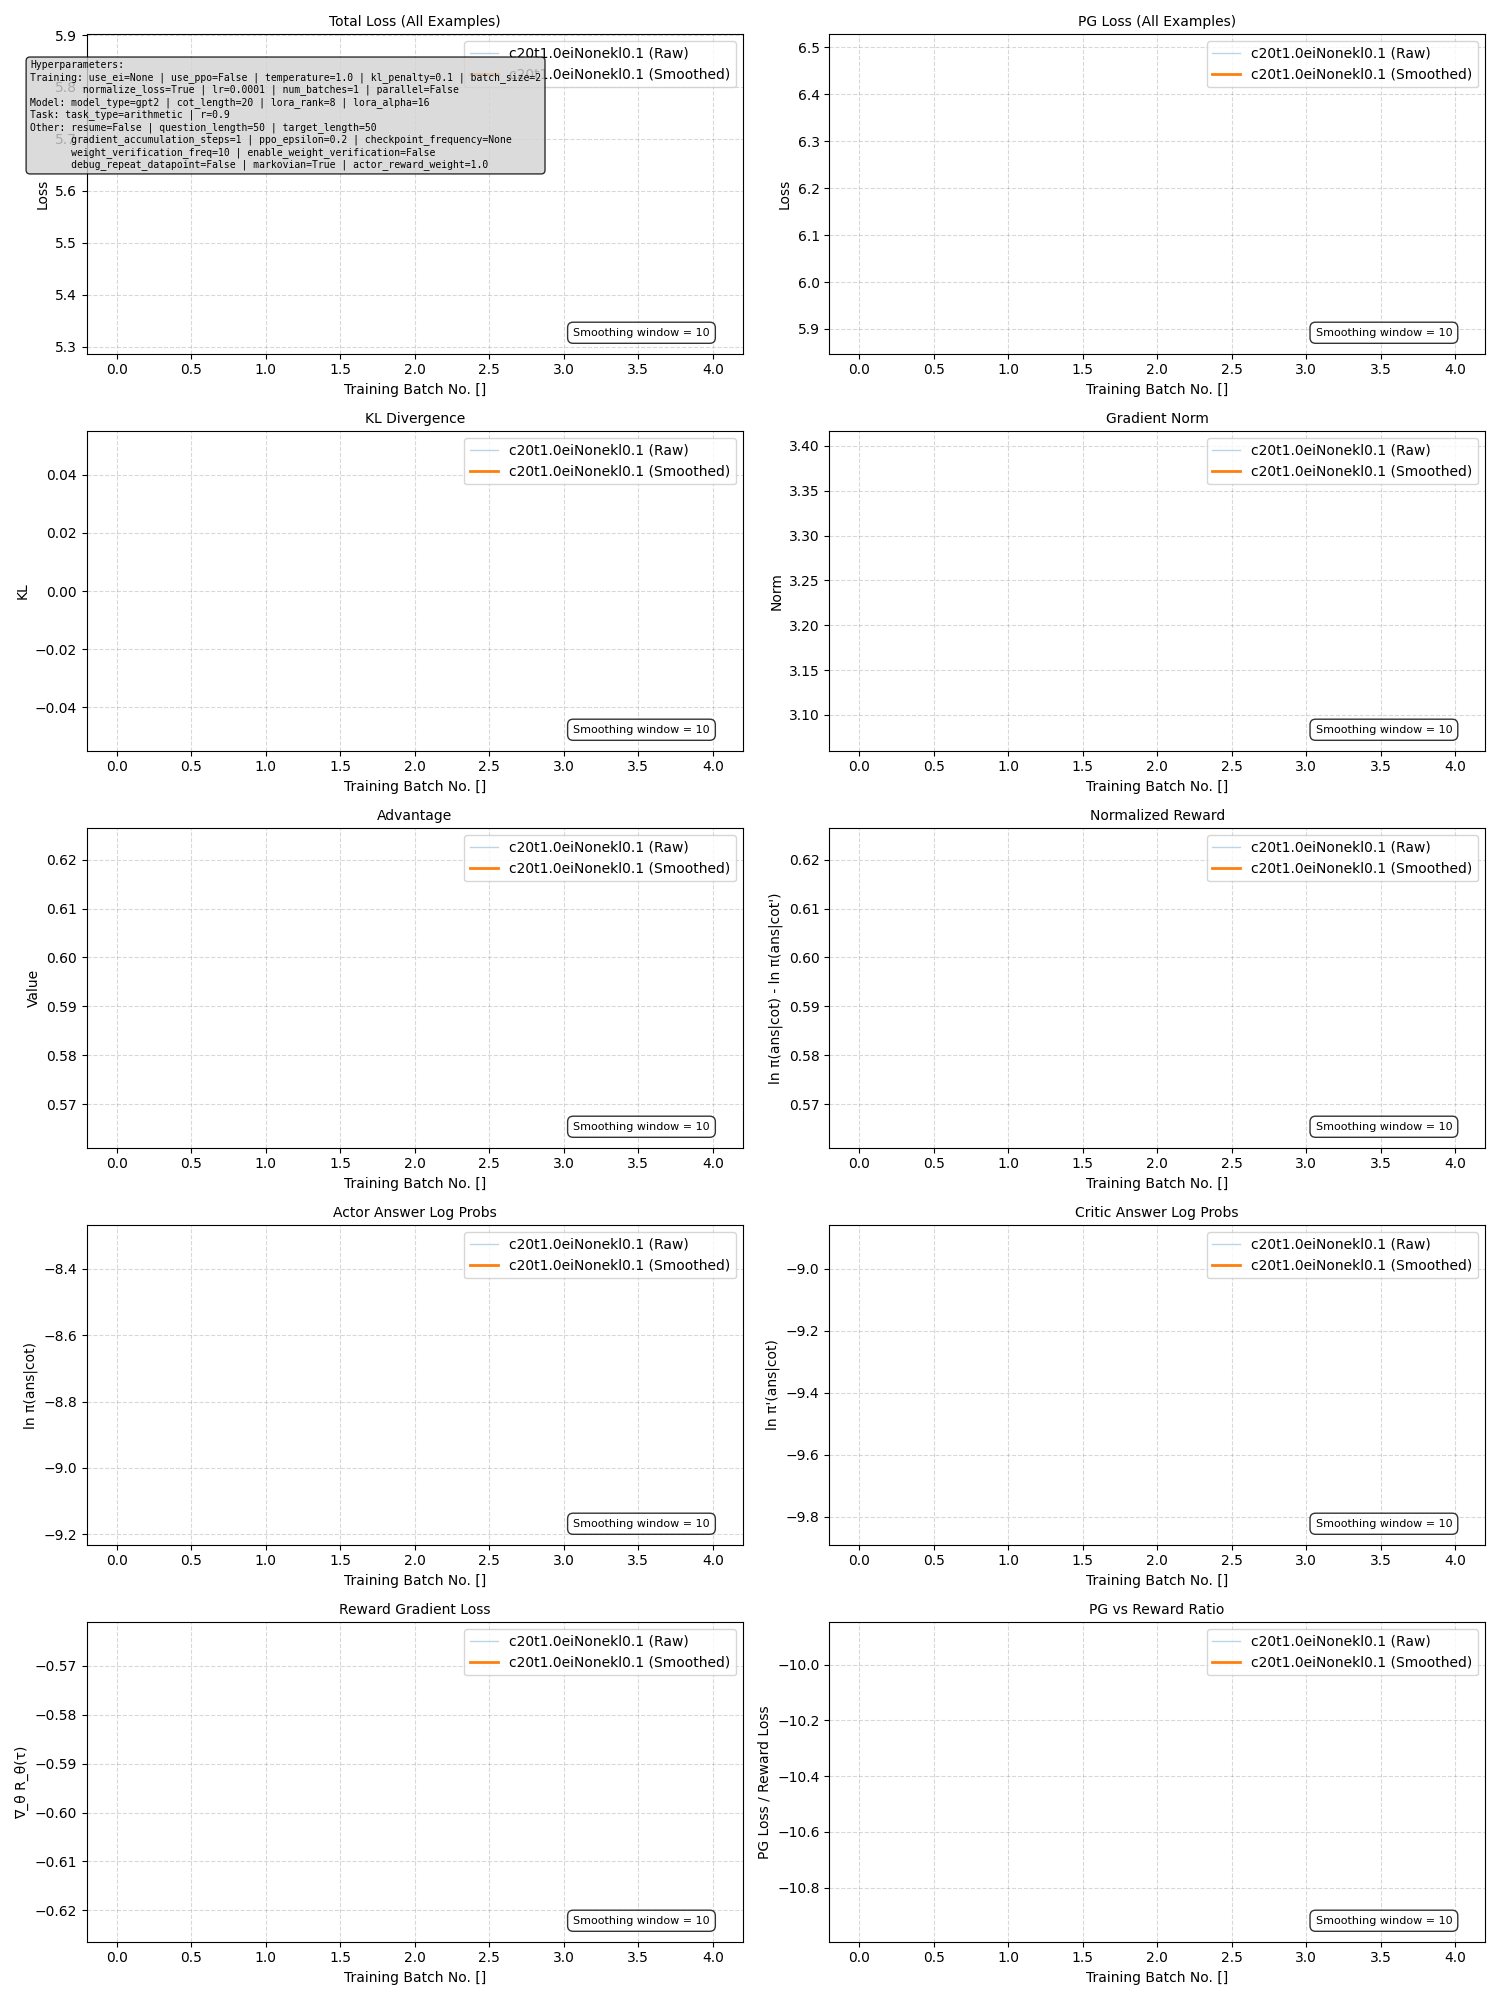
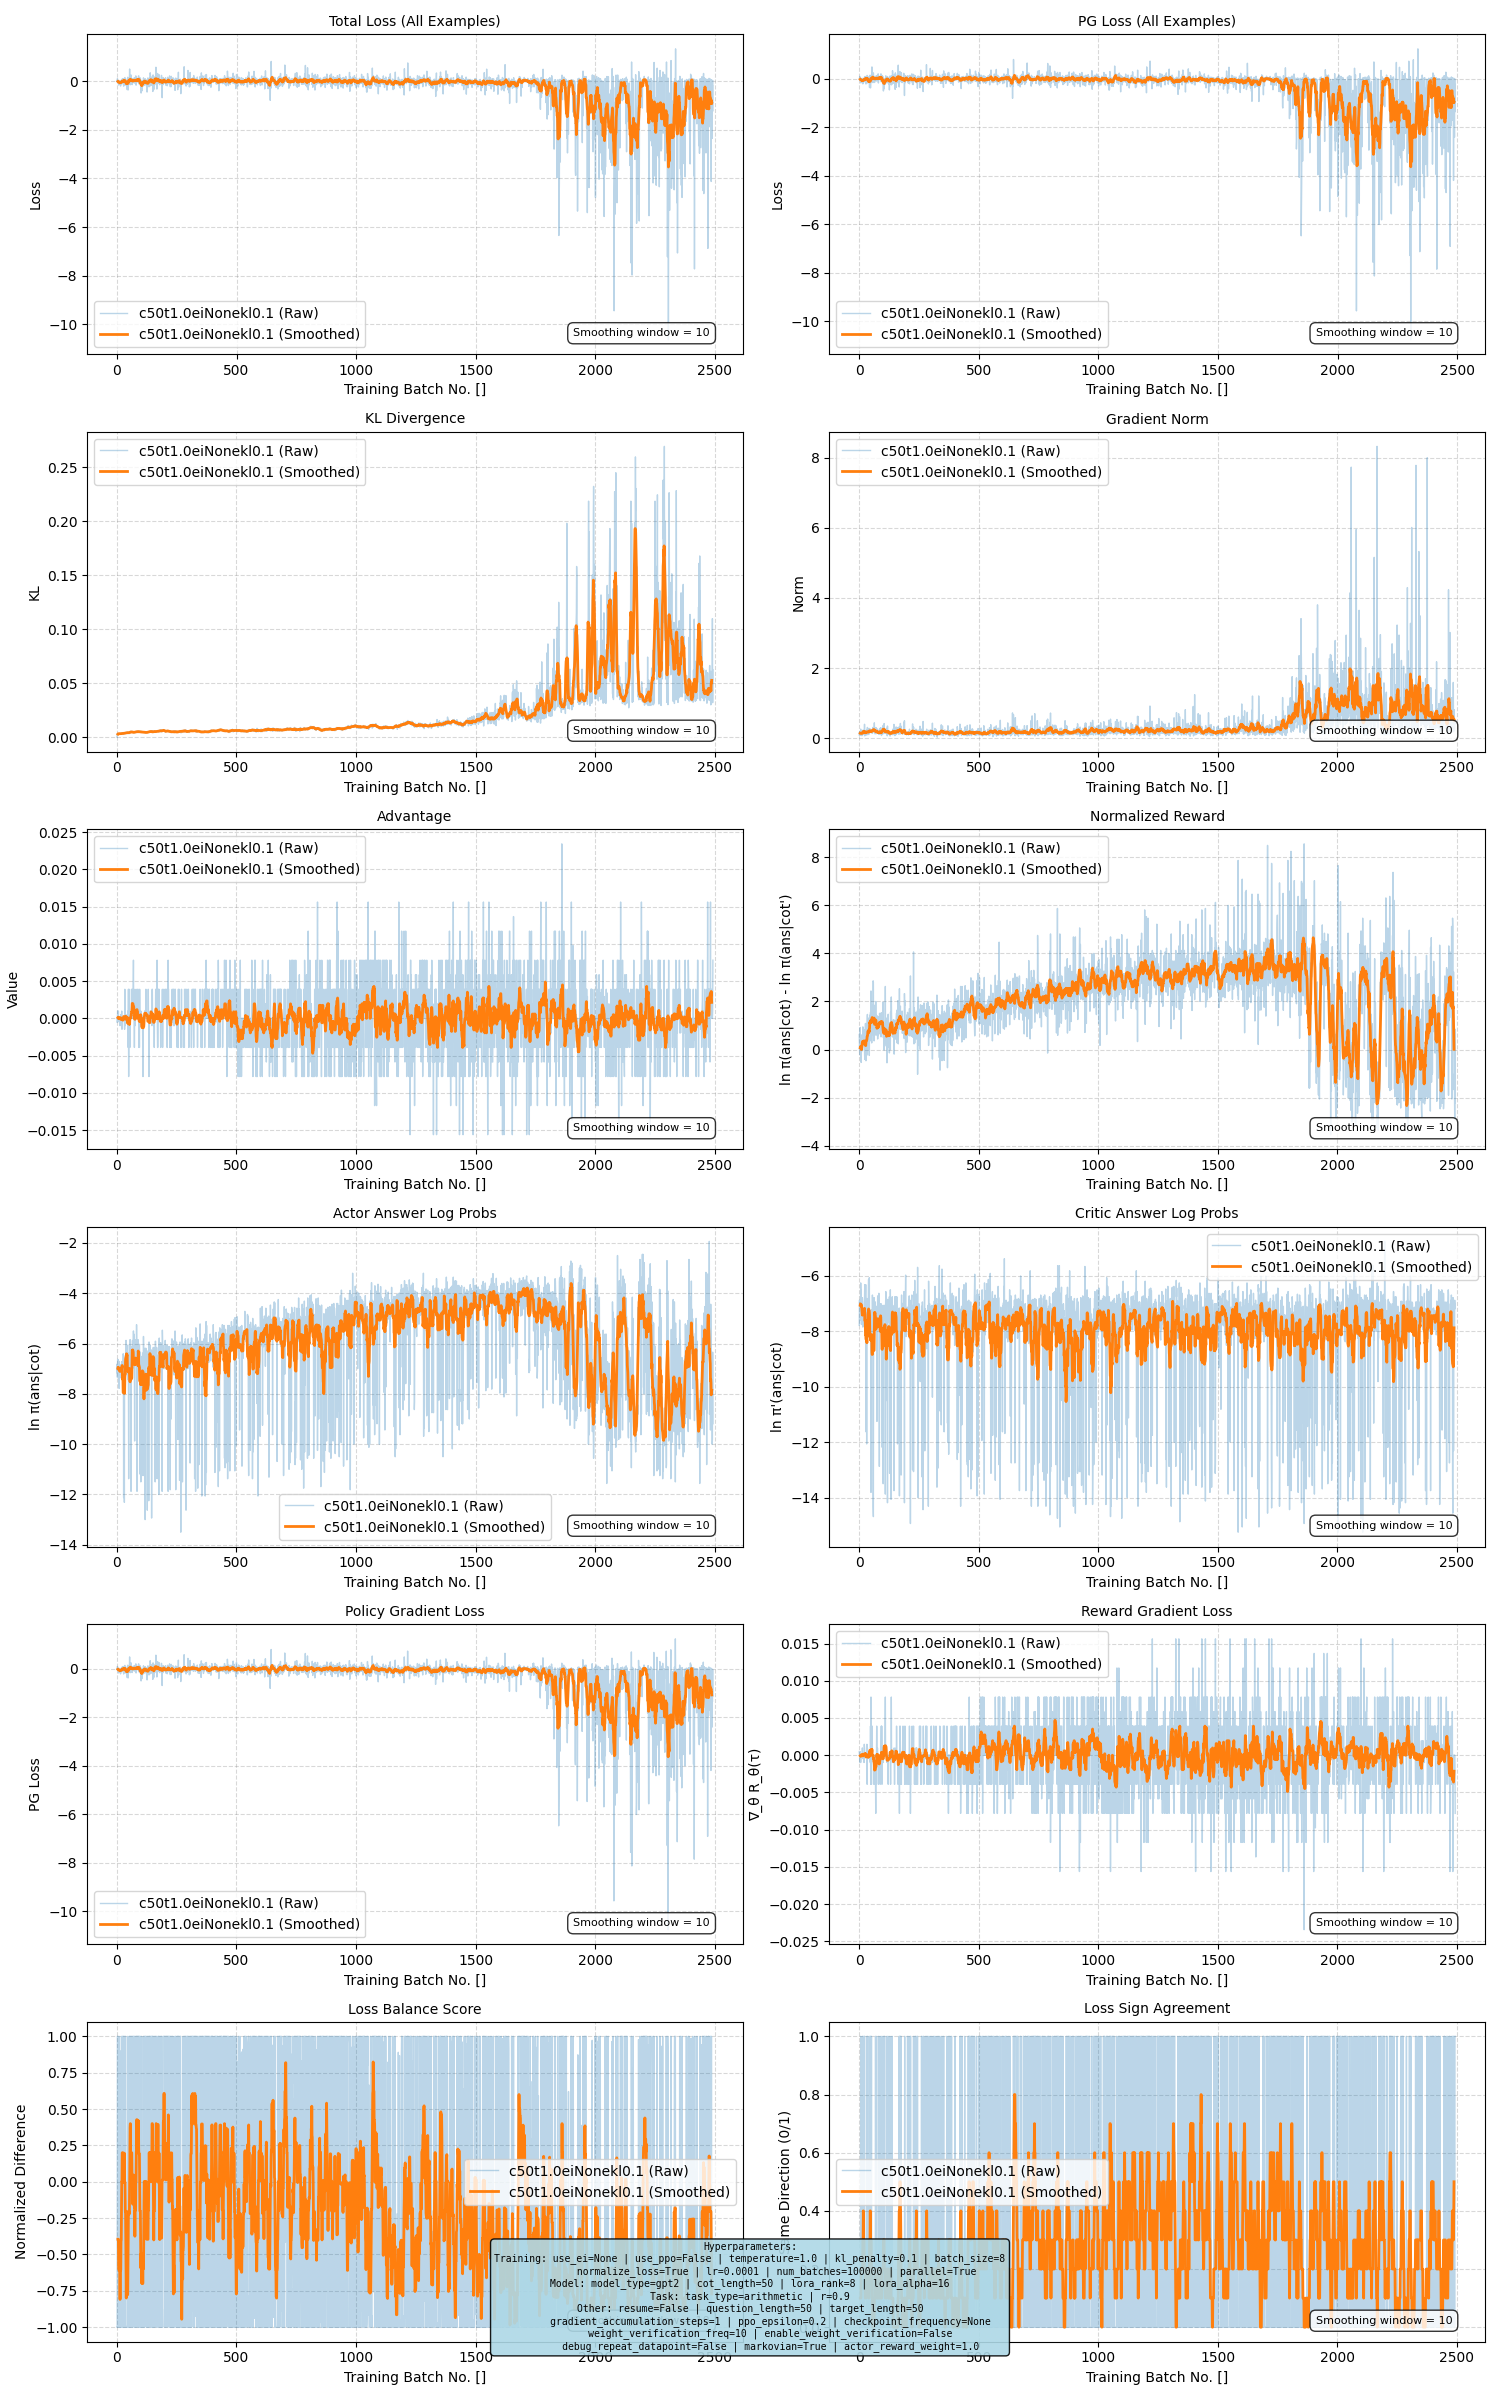
Fix hyperparameter spacing to prevent overlap with bottom plots
- Increase bottom margin from max(0.15, 0.05 + lines*0.02) to max(0.25, 0.15 + lines*0.025)
- Ensures proper clearance between hyperparameter caption and plot axes
- Regenerated combined_metrics_arithmetic.png with improved spacing

diff --git a/src/plot_training_metrics.py b/src/plot_training_metrics.py
@@ -114,19 +114,20 @@ def moving_average(data, window_size):
 
 
 def add_hyperparameters_display(fig, hyperparameters):
-    """Add a text box showing all hyperparameters at the top center of the figure."""
+    """Add a text box showing all hyperparameters at the bottom of the figure like a caption."""
     # Format hyperparameters for display
     param_text = format_hyperparameters_text(hyperparameters)
     
     # Calculate appropriate spacing based on number of parameter lines
     param_lines = param_text.count('\n') + 1
-    # Reserve more space for hyperparameters - scale with number of lines
-    top_margin = max(0.82, 0.95 - param_lines * 0.02)
-    fig.subplots_adjust(top=top_margin)
+    # Reserve generous space at the bottom for hyperparameters - scale with number of lines
+    # Increased margins to prevent overlap with bottom plots
+    bottom_margin = max(0.25, 0.15 + param_lines * 0.025)
+    fig.subplots_adjust(bottom=bottom_margin)
     
-    # Add text box at the top center of the figure
-    fig.text(0.5, 0.98, param_text, fontsize=7, 
-             verticalalignment='top', horizontalalignment='center',
+    # Add text box at the bottom center of the figure like a caption
+    fig.text(0.5, 0.02, param_text, fontsize=7, 
+             verticalalignment='bottom', horizontalalignment='center',
              bbox=dict(boxstyle='round,pad=0.4', facecolor='lightblue', alpha=0.9),
              family='monospace')
 
